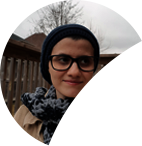
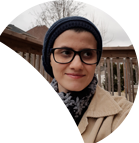
new layout

diff --git a/css/main.css b/css/main.css
@@ -20,12 +20,12 @@ h2 {
 
 h3 {
 	font-family: ltc-broadway, sans-serif;
-	font-size: 50px;
+	font-size: 60px;
 	display: inline;
 }
 
 p {
-	font-family: Helvetica, Arial, san-serif;
+	font-family: 'Dosis', sans-serif;
 }
 
 
@@ -43,43 +43,62 @@ p {
 	background-size: cover;*/
 }
 
-#header {
+#content {
+	/*background: url(../images/background.png) no-repeat;
+	background-size: cover;*/
 	display: flex;
-	flex-direction: column;
-	margin-top: 20px;
+	margin: auto;
 }
 
-#header h2 {
+
+#headerAndBio {
+	display: flex;
+	flex-direction: column;
+	margin-top: 40px;
+	margin-left: 40px;
+}
+
+#headerAndBio h2 {
 	padding: 20px 30px;
 	margin-top: 0;
 	margin-bottom: 0;
 }
 
-#header p {
+#intro {
 	font-family: ltc-broadway, sans-serif;
 	font-size: 20px;
 	margin-top: 10px;
 	margin-right: auto;
 	margin-left: 40px;
-	width: 420px;
+	width: 440px;
 }
 
-#bio {
+#bio-text {
+	margin: 120px 40px;
+	margin-bottom: 0;
+	padding-right: 320px;
+	font-size: 18px;
+	line-height: 25px;
+}
+
+/*#bio {
 	background: url(../images/background.png) no-repeat;
 	background-size: cover;
 	display: flex;
-}
+	margin: auto;
+}*/
 
 #photo-name {
 	display: flex;
 	flex-direction: column;
-	margin-left: 40px;
+	margin-right: 120px;
+	margin-top: 140px;
 }
 
 #photo-small {
 	position: absolute;
-	top: 290px;
-	left: 50px;
+	top: 125px;
+	right: 80px;
 	cursor: pointer;
 	transition: all .5s ease;
 }
@@ -89,30 +108,20 @@ p {
 }
 
 #photo-large {
-	width: 400px;
-	margin-top: 80px;
-	margin-left: 40px;
 	border-radius: 400px;
-
 }
 
 #name {
+	margin-top: 60px;
+	line-height: 50px;
 	text-align: center;
-	padding: 30px;
-	margin-bottom: 40px;
-}
-
-#bio-text {
-	margin: auto;
-	padding: 10px 100px 0 100px;
-	font-size: 18px;
-	line-height: 20px;
 }
 
 #footer {
+	margin-top: 80px;
 	text-align: right;
 	font-size: 10px;
 	padding: 20px 10px 10px 10px;
 	/*background-color: #283031;*/
-	background-color: #000;
+	background-color: #373737;
 }

diff --git a/index.html b/index.html
@@ -6,6 +6,7 @@
   <title>KM</title>
   <link rel="stylesheet" href="css/reset.css" type="text/css">   
   <link rel="stylesheet" href="https://use.typekit.net/gbl4xpv.css">
+  <link href="https://fonts.googleapis.com/css?family=Dosis" rel="stylesheet">
   <link rel="stylesheet" href="css/main.css" type="text/css">  
 </head>
 
@@ -13,19 +14,18 @@
 	<h1 class="hidden">KM</h1>
 
 	<div id="container" class="background">
-
-		<header id="header">
-			<h2>KM</h2>
-			<p>We are two Interactive Media Design students. Get to know each one of us by clicking on our images</p>
-		</header>			
-		<section id="bio">
-				<div id="photo-name">
+		<div id="content">
+			<section id="headerAndBio">
+				<h2>KM</h2>
+				<p id="intro">We are two Interactive Media Design students. Get to know each one of us by clicking on our images</p>
+				<p id="bio-text"></p>
+			</section>			
+			<section id="photo-name">
 					<img id="photo-small" class="Mariam-photo" src="images/mariam-small.png" alt="small photo">
 					<img id="photo-large" class="kayla-photo" src="images/kayla-large.jpg" alt="large profile photo">
 					<h3 id="name">Kayla Chang</h3>
-				</div> 
-				<p id="bio-text"></p>
-		</section>
+			</section>
+		</div>
 		<footer id="footer">
 			<p>Copyright 2019. All rights reserved.</p>
 		</footer>
